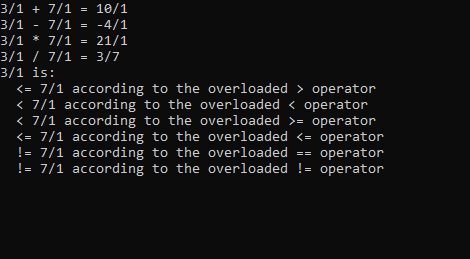
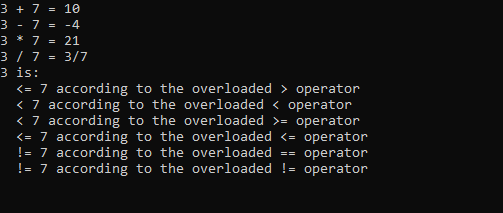
Assign9

Changed region(s): [[0.0, 0.0, 0.834, 0.8451]]

diff --git a/Assign9/ConsoleApplication1/ConsoleApplication1/RationalNumber.cpp b/Assign9/ConsoleApplication1/ConsoleApplication1/RationalNumber.cpp
@@ -121,15 +121,20 @@ bool RationalNumber::operator != (RationalNumber other) const {
 	return !(*this == other);
 }
 
-void RationalNumber::printRational() {
-	cout << numerator << "/" << denominator;
-}
-
 RationalNumber& RationalNumber::operator =(RationalNumber other) {
 	this->numerator = other.numerator;
 	this->denominator = other.denominator;
 
 	return *this;
+}
+
+void RationalNumber::printRational() const {
+	if (this->numerator == 0 & this->denominator != 0)
+		cout << "0";
+	else if (this->denominator == 1)
+		cout << this->numerator;
+	else
+		cout << this->numerator << "/" << this->denominator;
 }
 
 #endif //RATIONALNUMBER_CPP

diff --git a/Assign9/ConsoleApplication1/ConsoleApplication1/RationalNumber.h b/Assign9/ConsoleApplication1/ConsoleApplication1/RationalNumber.h
@@ -26,7 +26,7 @@ public:
 	bool operator != (RationalNumber other) const;
 	RationalNumber& operator = (RationalNumber other);
 
-	void printRational();
+	void printRational() const;
 };
 
 #endif //RATIONALNUMBER_H
